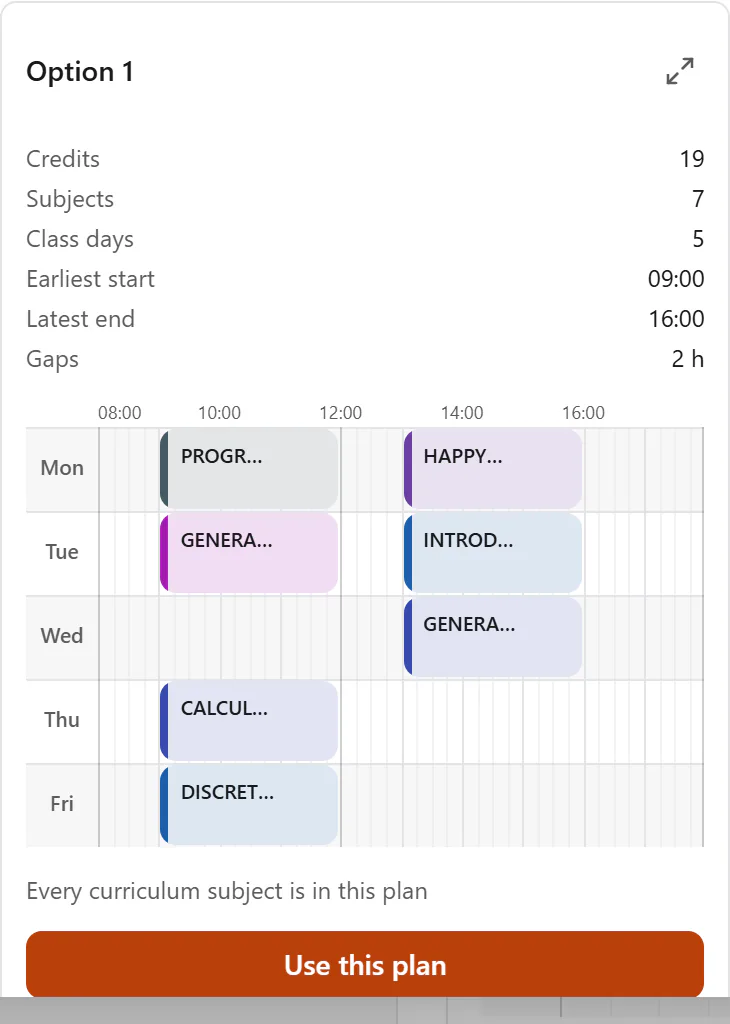
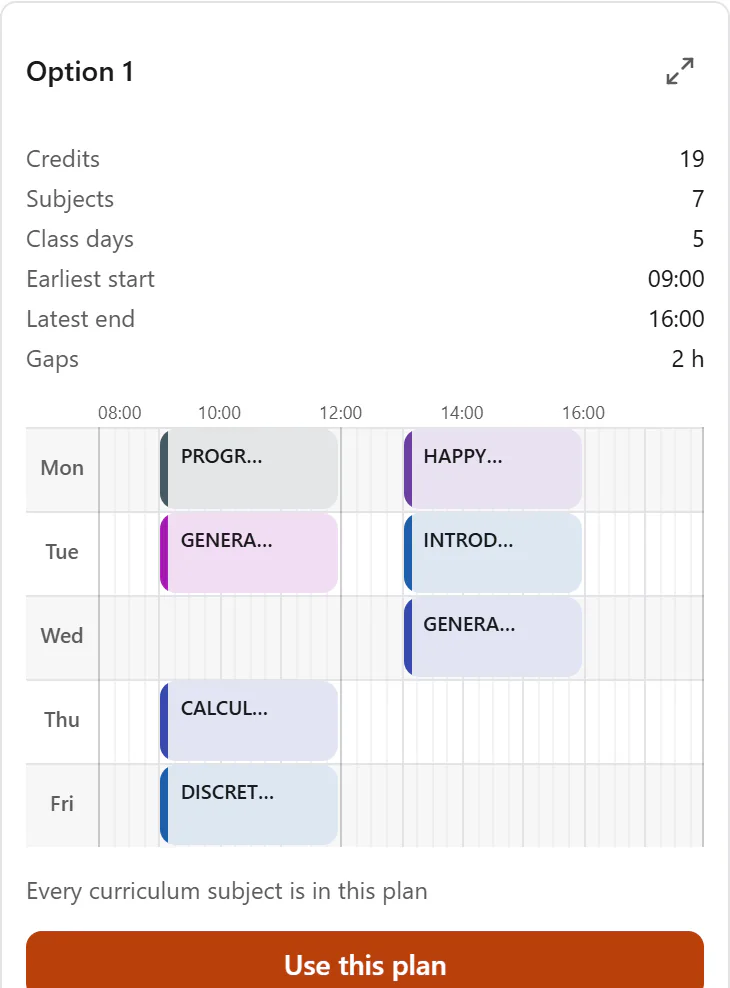
fix(site): stop the phone suggestion crop at the dialog's foot
The option card runs on below the visible part of the suggestions
dialog, so the phone crop of it ended in a grey strip of the scrim
under the Use this plan button. The capture now stops the crop where
the dialog ends.

diff --git a/scripts/landing/capture-landing-shots.ts b/scripts/landing/capture-landing-shots.ts
@@ -677,13 +677,16 @@ for (const locale of LOCALES) {
     await expect(apply).toHaveCount(3);
     await restPointer(page);
     await shot(page, 's-suggest', locale, await box(dialog));
-    // A phone shows one option, the width it reads at, instead of three at a third.
-    await shot(
-      page,
-      's-suggest-crop',
-      locale,
-      await box(dialog.getByRole('article').first()),
-    );
+    // A phone shows one option, the width it reads at, instead of three at a third. The
+    // card runs on under the dialog's foot, so the crop stops where the dialog ends.
+    const dialogBox = await box(dialog);
+    const option = await box(dialog.getByRole('article').first());
+    await shot(page, 's-suggest-crop', locale, {
+      ...option,
+      height:
+        Math.min(option.y + option.height, dialogBox.y + dialogBox.height - 4) -
+        option.y,
+    });
 
     await apply.first().click();
     await expect(dialog).toHaveCount(0);

diff --git a/site/en/index.html b/site/en/index.html
@@ -1532,12 +1532,12 @@
               ><source
                 media="(max-width: 639px)"
                 type="image/avif"
-                srcset="/shots/s-suggest-crop-en-730.avif?v=136a82a64d 730w"
+                srcset="/shots/s-suggest-crop-en-730.avif?v=ff4cd1a30d 730w"
                 sizes="calc(100vw - 40px)" />
               <source
                 media="(max-width: 639px)"
                 type="image/webp"
-                srcset="/shots/s-suggest-crop-en-730.webp?v=03f50374cd 730w"
+                srcset="/shots/s-suggest-crop-en-730.webp?v=7d1743d637 730w"
                 sizes="calc(100vw - 40px)" />
               <source
                 type="image/avif"

diff --git a/site/index.html b/site/index.html
@@ -1653,12 +1653,12 @@
               ><source
                 media="(max-width: 639px)"
                 type="image/avif"
-                srcset="/shots/s-suggest-crop-th-730.avif?v=de375f84a4 730w"
+                srcset="/shots/s-suggest-crop-th-730.avif?v=3c562db6a8 730w"
                 sizes="calc(100vw - 40px)" />
               <source
                 media="(max-width: 639px)"
                 type="image/webp"
-                srcset="/shots/s-suggest-crop-th-730.webp?v=51cbbb2512 730w"
+                srcset="/shots/s-suggest-crop-th-730.webp?v=7bccc2cf38 730w"
                 sizes="calc(100vw - 40px)" />
               <source
                 type="image/avif"
